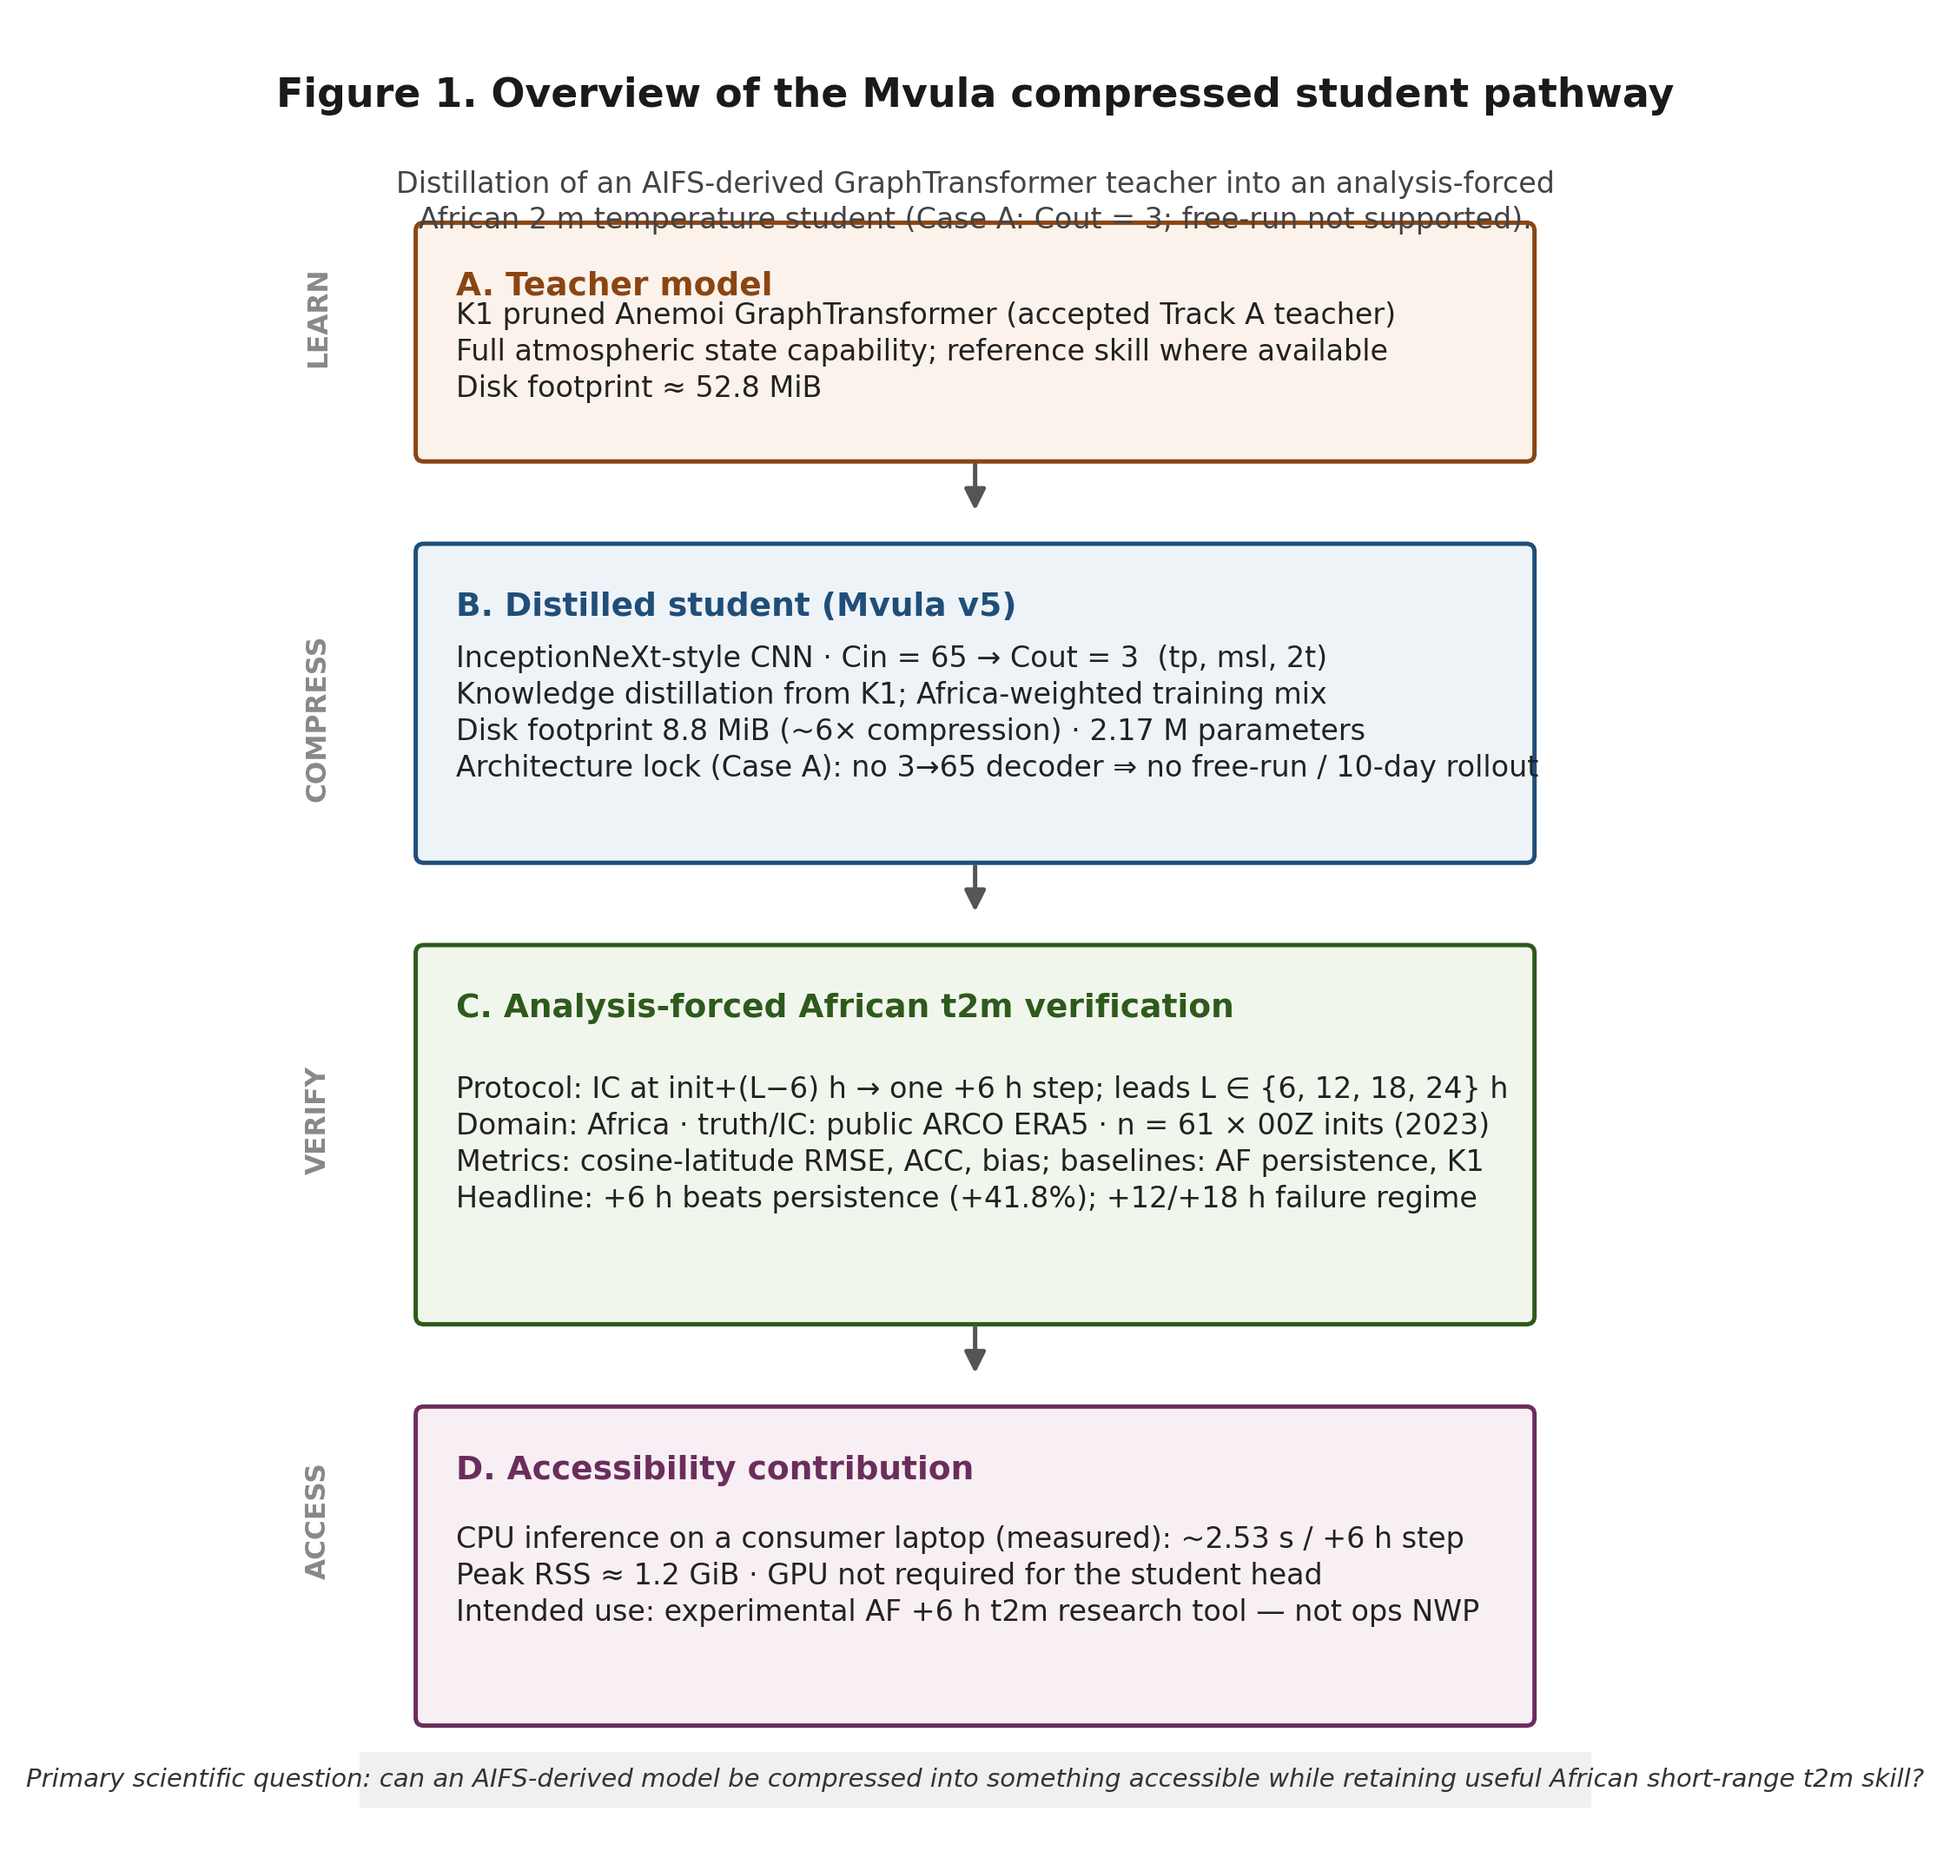
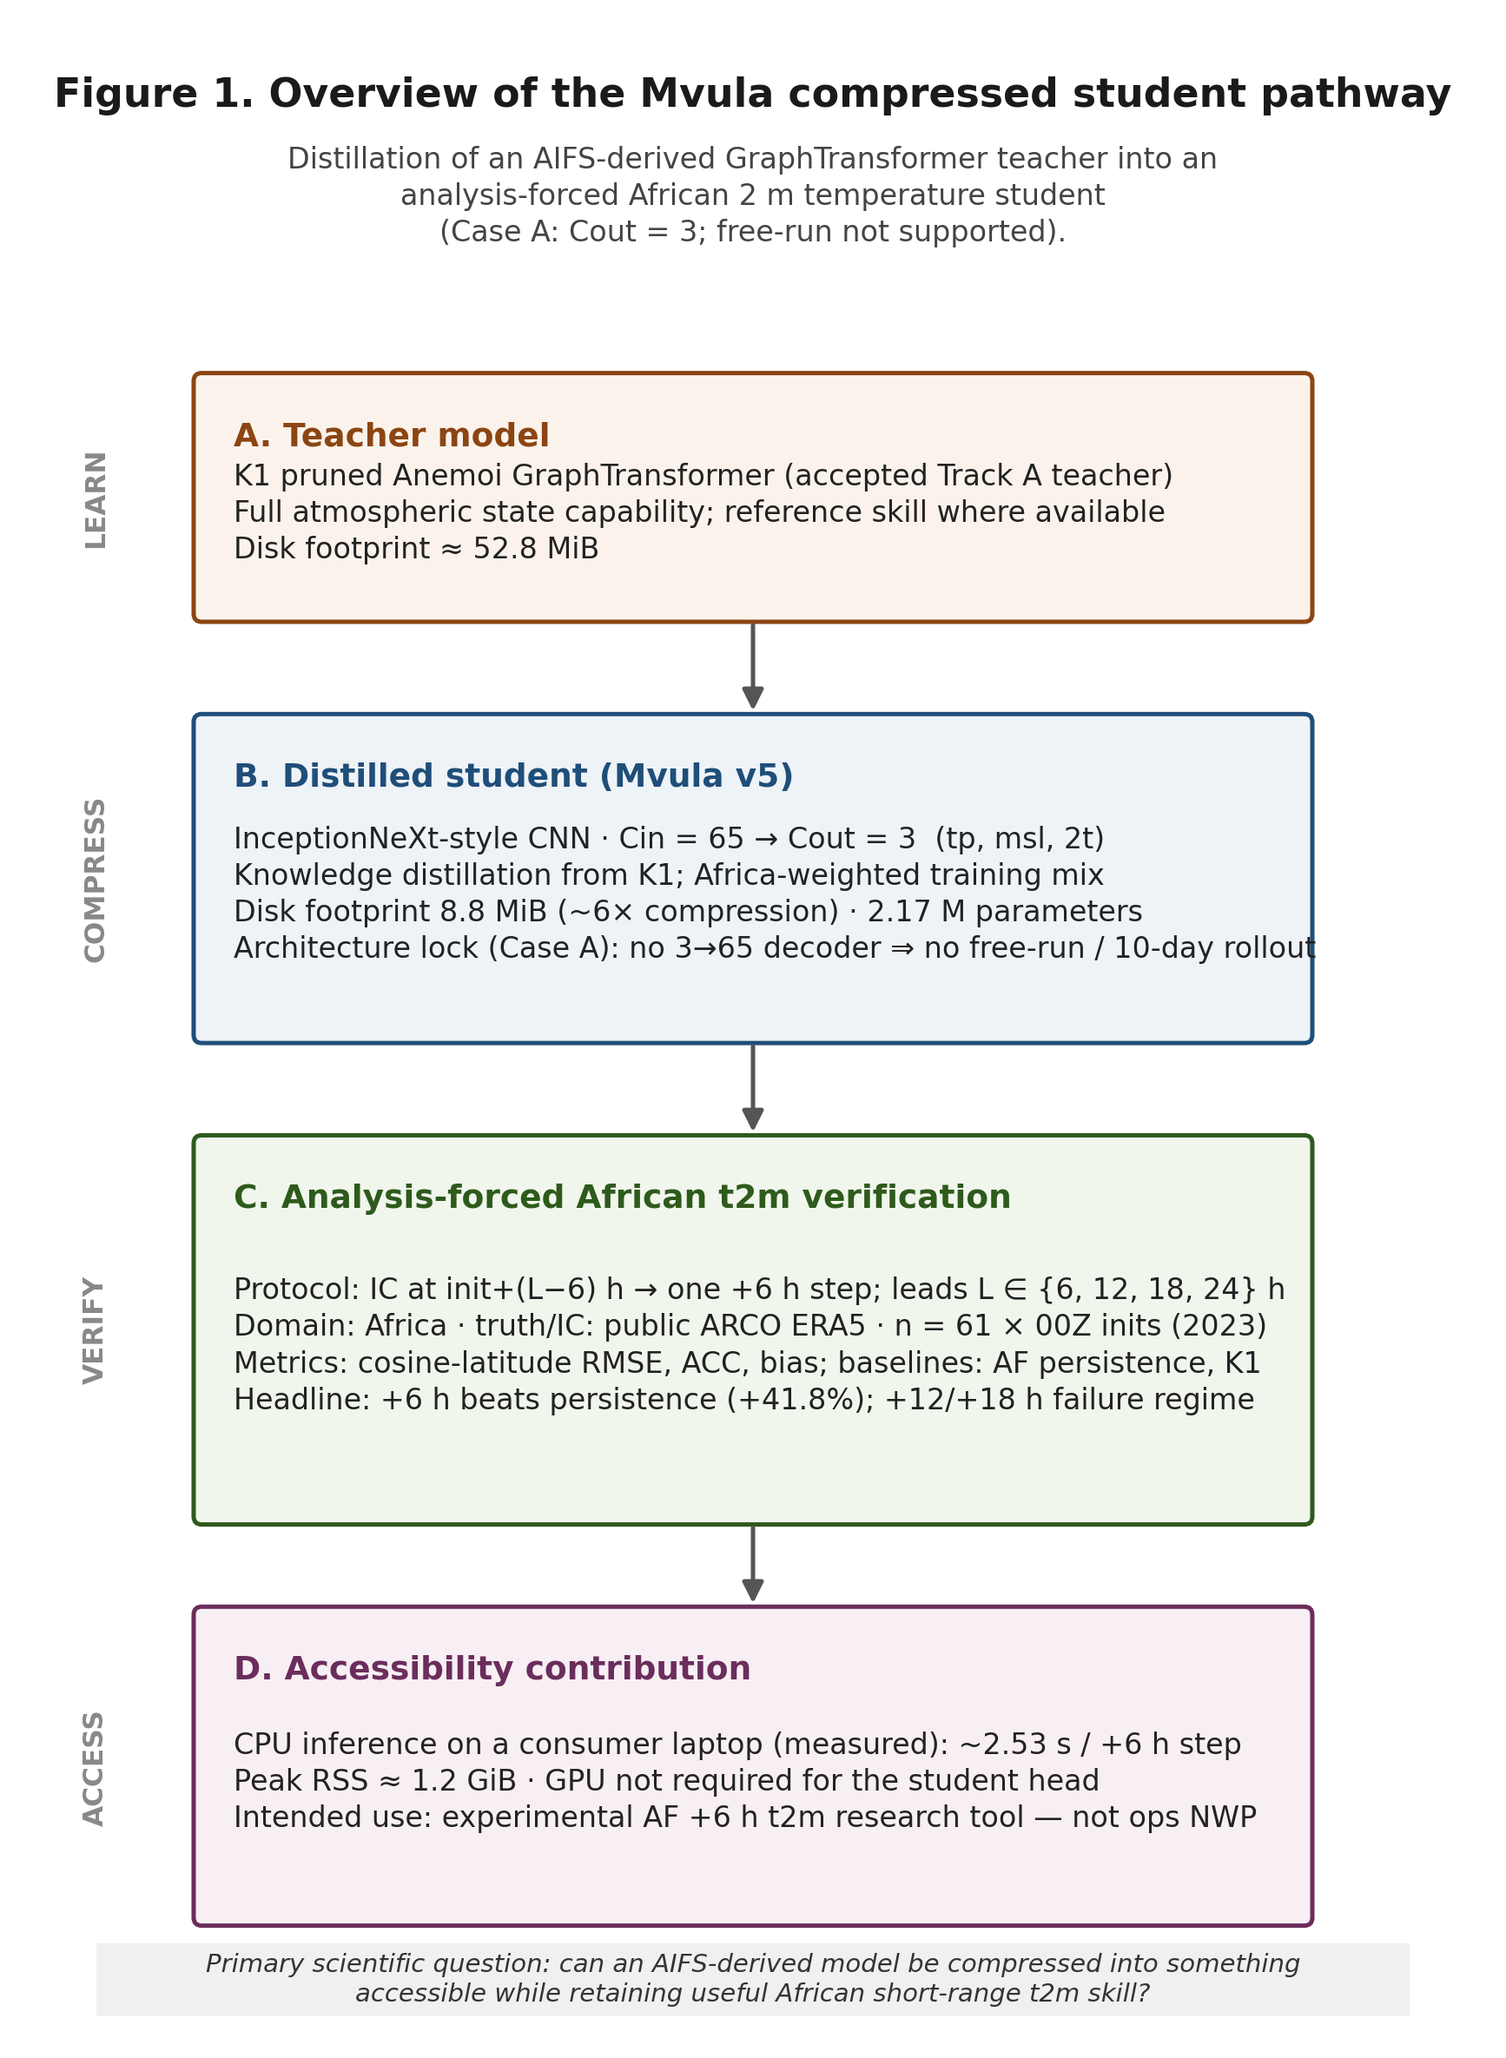
Fix publication Fig.1 header spacing so subtitle no longer overlaps panel A.

diff --git a/scripts/plot_mvula_report_fig02_fig03.py b/scripts/plot_mvula_report_fig02_fig03.py
@@ -175,15 +175,15 @@ def fig1_pipeline_publication() -> None:
     """
     from matplotlib.patches import FancyArrowPatch, FancyBboxPatch, Rectangle
 
-    fig, ax = plt.subplots(figsize=(7.2, 9.0))
+    # Extra headroom so title + subtitle never collide with panel A
+    fig, ax = plt.subplots(figsize=(7.2, 10.0))
     ax.set_xlim(0, 7.2)
-    ax.set_ylim(0, 9.0)
+    ax.set_ylim(0, 10.0)
     ax.axis("off")
 
-    # Header
     ax.text(
         3.6,
-        8.65,
+        9.65,
         "Figure 1. Overview of the Mvula compressed student pathway",
         ha="center",
         va="center",
@@ -193,27 +193,82 @@ def fig1_pipeline_publication() -> None:
     )
     ax.text(
         3.6,
-        8.28,
-        "Distillation of an AIFS-derived GraphTransformer teacher into an analysis-forced\n"
-        "African 2 m temperature student (Case A: Cout = 3; free-run not supported).",
+        9.15,
+        "Distillation of an AIFS-derived GraphTransformer teacher into an\n"
+        "analysis-forced African 2 m temperature student\n"
+        "(Case A: Cout = 3; free-run not supported).",
         ha="center",
-        va="top",
+        va="center",
         fontsize=8,
         color="#444444",
-        linespacing=1.3,
+        linespacing=1.35,
     )
 
-    # Narrative spine labels on the left
-    phases = [
-        (7.55, "LEARN"),
-        (5.55, "COMPRESS"),
-        (3.55, "VERIFY"),
-        (1.55, "ACCESS"),
+    # Panel bottoms (y) and heights — leave clear gap under subtitle
+    # Subtitle occupies ~8.7–9.4; first panel top at 8.35
+    layout = [
+        # (y, h, phase_y, phase, title, lines, edge, face)
+        (
+            7.05,
+            1.20,
+            7.65,
+            "LEARN",
+            "A. Teacher model",
+            [
+                "K1 pruned Anemoi GraphTransformer (accepted Track A teacher)",
+                "Full atmospheric state capability; reference skill where available",
+                "Disk footprint ≈ 52.8 MiB",
+            ],
+            "#8B4513",
+            "#FBF3EB",
+        ),
+        (
+            4.95,
+            1.60,
+            5.75,
+            "COMPRESS",
+            "B. Distilled student (Mvula v5)",
+            [
+                "InceptionNeXt-style CNN · Cin = 65 → Cout = 3  (tp, msl, 2t)",
+                "Knowledge distillation from K1; Africa-weighted training mix",
+                "Disk footprint 8.8 MiB (~6× compression) · 2.17 M parameters",
+                "Architecture lock (Case A): no 3→65 decoder ⇒ no free-run / 10-day rollout",
+            ],
+            "#1f4e79",
+            "#EEF3F8",
+        ),
+        (
+            2.55,
+            1.90,
+            3.50,
+            "VERIFY",
+            "C. Analysis-forced African t2m verification",
+            [
+                "Protocol: IC at init+(L−6) h → one +6 h step; leads L ∈ {6, 12, 18, 24} h",
+                "Domain: Africa · truth/IC: public ARCO ERA5 · n = 61 × 00Z inits (2023)",
+                "Metrics: cosine-latitude RMSE, ACC, bias; baselines: AF persistence, K1",
+                "Headline: +6 h beats persistence (+41.8%); +12/+18 h failure regime",
+            ],
+            "#2E5A1C",
+            "#F1F6ED",
+        ),
+        (
+            0.55,
+            1.55,
+            1.32,
+            "ACCESS",
+            "D. Accessibility contribution",
+            [
+                "CPU inference on a consumer laptop (measured): ~2.53 s / +6 h step",
+                "Peak RSS ≈ 1.2 GiB · GPU not required for the student head",
+                "Intended use: experimental AF +6 h t2m research tool — not ops NWP",
+            ],
+            "#6B2D5C",
+            "#F7EFF4",
+        ),
     ]
-    for y, lab in phases:
-        ax.text(0.28, y, lab, ha="left", va="center", fontsize=7.5, fontweight="bold", color="#888888", rotation=90)
 
-    def panel(x, y, w, h, title, lines, edge="#333333", face="#f7f7f7"):
+    def panel(x, y, w, h, title, lines, edge, face):
         box = FancyBboxPatch(
             (x, y),
             w,
@@ -227,7 +282,7 @@ def fig1_pipeline_publication() -> None:
         ax.text(x + 0.18, y + h - 0.22, title, ha="left", va="top", fontsize=9, fontweight="bold", color=edge)
         ax.text(
             x + 0.18,
-            y + h / 2 - 0.05,
+            y + h / 2 - 0.08,
             "\n".join(lines),
             ha="left",
             va="center",
@@ -236,98 +291,46 @@ def fig1_pipeline_publication() -> None:
             linespacing=1.35,
         )
 
-    def arrow(y1, y2):
-        arr = FancyArrowPatch(
-            (3.6, y1),
-            (3.6, y2),
-            arrowstyle="-|>",
-            mutation_scale=12,
-            linewidth=1.2,
-            color="#555555",
+    x0, w = 0.85, 5.5
+    for i, (y, h, phase_y, phase, title, lines, edge, face) in enumerate(layout):
+        ax.text(
+            0.28,
+            phase_y,
+            phase,
+            ha="left",
+            va="center",
+            fontsize=7.5,
+            fontweight="bold",
+            color="#888888",
+            rotation=90,
         )
-        ax.add_patch(arr)
+        panel(x0, y, w, h, title, lines, edge, face)
+        if i < len(layout) - 1:
+            y_next, h_next = layout[i + 1][0], layout[i + 1][1]
+            # arrow from bottom of this panel to top of next
+            arr = FancyArrowPatch(
+                (3.6, y),
+                (3.6, y_next + h_next),
+                arrowstyle="-|>",
+                mutation_scale=12,
+                linewidth=1.2,
+                color="#555555",
+            )
+            ax.add_patch(arr)
 
-    # LEARN
-    panel(
-        0.85,
-        6.85,
-        5.5,
-        1.15,
-        "A. Teacher model",
-        [
-            "K1 pruned Anemoi GraphTransformer (accepted Track A teacher)",
-            "Full atmospheric state capability; reference skill where available",
-            "Disk footprint ≈ 52.8 MiB",
-        ],
-        edge="#8B4513",
-        face="#FBF3EB",
-    )
-    arrow(6.85, 6.55)
-
-    # COMPRESS
-    panel(
-        0.85,
-        4.85,
-        5.5,
-        1.55,
-        "B. Distilled student (Mvula v5)",
-        [
-            "InceptionNeXt-style CNN · Cin = 65 → Cout = 3  (tp, msl, 2t)",
-            "Knowledge distillation from K1; Africa-weighted training mix",
-            "Disk footprint 8.8 MiB (~6× compression) · 2.17 M parameters",
-            "Architecture lock (Case A): no 3→65 decoder ⇒ no free-run / 10-day rollout",
-        ],
-        edge="#1f4e79",
-        face="#EEF3F8",
-    )
-    arrow(4.85, 4.55)
-
-    # VERIFY
-    panel(
-        0.85,
-        2.55,
-        5.5,
-        1.85,
-        "C. Analysis-forced African t2m verification",
-        [
-            "Protocol: IC at init+(L−6) h → one +6 h step; leads L ∈ {6, 12, 18, 24} h",
-            "Domain: Africa · truth/IC: public ARCO ERA5 · n = 61 × 00Z inits (2023)",
-            "Metrics: cosine-latitude RMSE, ACC, bias; baselines: AF persistence, K1",
-            "Headline: +6 h beats persistence (+41.8%); +12/+18 h failure regime",
-        ],
-        edge="#2E5A1C",
-        face="#F1F6ED",
-    )
-    arrow(2.55, 2.25)
-
-    # ACCESS
-    panel(
-        0.85,
-        0.55,
-        5.5,
-        1.55,
-        "D. Accessibility contribution",
-        [
-            "CPU inference on a consumer laptop (measured): ~2.53 s / +6 h step",
-            "Peak RSS ≈ 1.2 GiB · GPU not required for the student head",
-            "Intended use: experimental AF +6 h t2m research tool — not ops NWP",
-        ],
-        edge="#6B2D5C",
-        face="#F7EFF4",
-    )
-
-    # Side note strip
-    ax.add_patch(Rectangle((0.55, 0.12), 6.1, 0.28, facecolor="#f0f0f0", edgecolor="none"))
+    ax.add_patch(Rectangle((0.35, 0.08), 6.5, 0.36, facecolor="#f0f0f0", edgecolor="none", zorder=0))
     ax.text(
         3.6,
         0.26,
-        "Primary scientific question: can an AIFS-derived model be compressed into something accessible "
-        "while retaining useful African short-range t2m skill?",
+        "Primary scientific question: can an AIFS-derived model be compressed into something\n"
+        "accessible while retaining useful African short-range t2m skill?",
         ha="center",
         va="center",
         fontsize=7,
         color="#333333",
         style="italic",
+        linespacing=1.25,
+        zorder=1,
     )
 
     fig.savefig(OUT1_PUB, dpi=300, bbox_inches="tight", facecolor="white")
